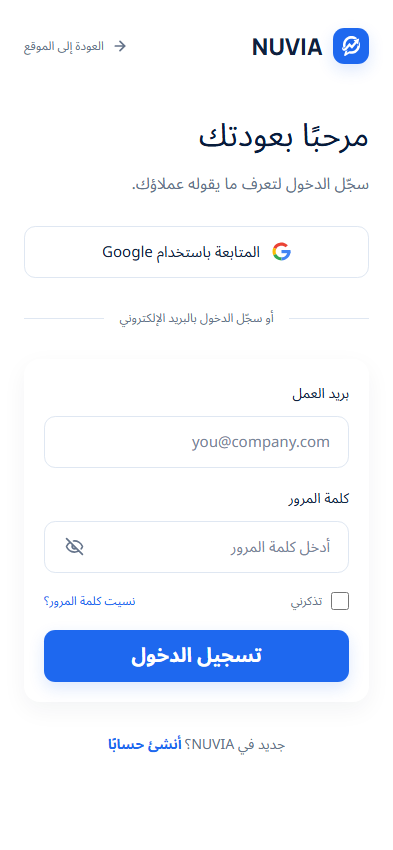
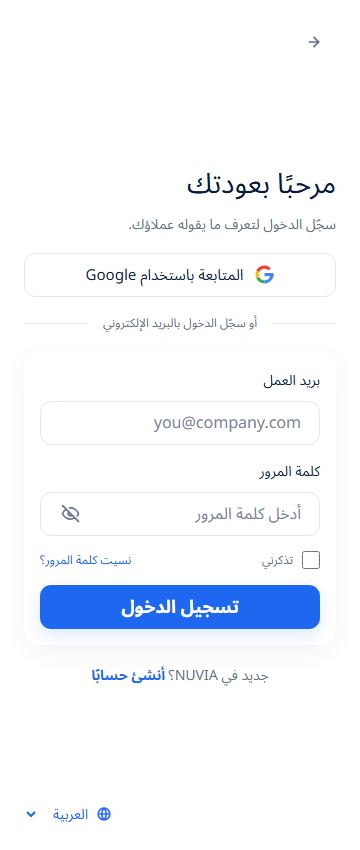
Keep mobile language controls and ignore stale account responses

diff --git a/tests/frontend/flows.test.jsx b/tests/frontend/flows.test.jsx
@@ -1,8 +1,9 @@
 import React from 'react';
-import { fireEvent, render, screen, waitFor } from '@testing-library/react';
+import { act, fireEvent, render, screen, waitFor } from '@testing-library/react';
 import userEvent from '@testing-library/user-event';
-import { describe, expect, it } from 'vitest';
+import { describe, expect, it, vi } from 'vitest';
 import App from '../../src/frontend/src/App.jsx';
+import * as auth from '../../src/frontend/src/services/auth.js';
 
 function openRoute(route) {
   history.replaceState(null, '', '/#/' + route);
@@ -87,4 +88,53 @@ describe('bilingual frontend flows', () => {
     fireEvent.click(screen.getByRole('button', { name: 'Hide password' }));
     expect(password).toHaveAttribute('type', 'password');
   });
+});
+
+it('ignores a pending login response after navigating to signup, including its busy state', async () => {
+  let finishLogin, finishSignup;
+  vi.spyOn(auth, 'submitDemo')
+    .mockImplementationOnce(
+      () =>
+        new Promise((resolve) => {
+          finishLogin = resolve;
+        }),
+    )
+    .mockImplementationOnce(
+      () =>
+        new Promise((resolve) => {
+          finishSignup = resolve;
+        }),
+    );
+  openRoute('login');
+  fireEvent.change(screen.getByLabelText('Work email'), { target: { value: 'demo@example.com' } });
+  fireEvent.change(screen.getByLabelText('Password', { exact: true }), {
+    target: { value: 'Synthetic123' },
+  });
+  fireEvent.click(screen.getByRole('button', { name: 'Log in', exact: true }));
+  await waitFor(() => expect(finishLogin).toBeTypeOf('function'));
+  await act(async () => {
+    history.replaceState(null, '', '/#/signup');
+    window.dispatchEvent(new HashChangeEvent('hashchange'));
+  });
+  expect(screen.getByRole('button', { name: 'Create account', exact: true })).toBeEnabled();
+  fireEvent.change(screen.getByLabelText('Full name'), { target: { value: 'Demo owner' } });
+  fireEvent.change(screen.getByLabelText('Work email'), { target: { value: 'demo@example.com' } });
+  fireEvent.change(screen.getByLabelText('Password', { exact: true }), {
+    target: { value: 'Synthetic123' },
+  });
+  fireEvent.change(screen.getByLabelText('Confirm password'), {
+    target: { value: 'Synthetic123' },
+  });
+  fireEvent.click(screen.getByRole('checkbox'));
+  fireEvent.click(screen.getByRole('button', { name: 'Create account', exact: true }));
+  await waitFor(() => expect(finishSignup).toBeTypeOf('function'));
+  await act(async () => {
+    finishLogin({ error: 'loginFailed' });
+  });
+  expect(screen.queryByRole('status')).not.toBeInTheDocument();
+  expect(document.querySelector('.signup button[type=submit]')).toBeDisabled();
+  await act(async () => {
+    finishSignup({ message: 'accountDemo' });
+  });
+  expect(screen.getByRole('status')).toHaveTextContent('No account was created.');
 });

diff --git a/src/frontend/src/App.jsx b/src/frontend/src/App.jsx
@@ -1,4 +1,4 @@
-import React, { useEffect, useState } from 'react';
+import React, { useEffect, useRef, useState } from 'react';
 import Field from './components/Field.jsx';
 import { en, ar } from './i18n.js';
 import { submitDemo } from './services/auth.js';
@@ -21,6 +21,7 @@ const currentRoute = () => {
   return routes.includes(value) ? value : 'landing';
 };
 export default function App() {
+  const requestGeneration = useRef(0);
   const [business, setBusiness] = useState({
     businessName: '',
     industry: '',
@@ -46,13 +47,18 @@ export default function App() {
     isForgot = page === 'forgot';
   useEffect(() => {
     const listener = () => {
+      requestGeneration.current += 1;
+      setBusy(false);
       setPage(currentRoute());
       setErrors({});
       setNotice('');
       setValues({ name: '', email: '', password: '', confirm: '', terms: false, remember: false });
     };
     addEventListener('hashchange', listener);
-    return () => removeEventListener('hashchange', listener);
+    return () => {
+      removeEventListener('hashchange', listener);
+      requestGeneration.current += 1;
+    };
   }, []);
   useEffect(() => {
     document.documentElement.lang = language;
@@ -97,13 +103,17 @@ export default function App() {
     setErrors(next);
     setNotice('');
     if (Object.keys(next).length) return;
+    const generation = ++requestGeneration.current;
+    const isCurrentRequest = () =>
+      generation === requestGeneration.current && currentRoute() === page;
     setBusy(true);
     try {
       const result = await submitDemo(page, values);
+      if (!isCurrentRequest()) return;
       if (result.field) setErrors({ [result.field]: result.error });
       else setNotice(result.error || result.message);
     } finally {
-      setBusy(false);
+      if (isCurrentRequest()) setBusy(false);
     }
   }
   const title = isLogin
@@ -151,6 +161,7 @@ export default function App() {
           </div>
           <button
             className="back"
+            aria-label={t.back}
             onClick={() => {
               location.hash = '/landing';
             }}
@@ -159,7 +170,7 @@ export default function App() {
               src={asset(isForgot || page === 'reset' ? 'imgBackArrow' : 'imgArrowLeft')}
               alt=""
             />
-            {t.back}
+            <span className="back-text">{t.back}</span>
           </button>
         </header>
         <div className={`auth-content ${isSignup ? 'signup' : ''} ${isLogin ? 'login' : ''}`}>

diff --git a/src/frontend/src/styles/setup.css b/src/frontend/src/styles/setup.css
@@ -866,10 +866,21 @@
   }
 }
 
-/* Phone setup screens omit the desktop copyright footer. */
+/* Phone setup screens retain language without desktop copyright links. */
 @media (max-width: 850px) {
   .business-onboarding .setup-footer {
+    display: flex;
+    justify-content: flex-end;
+    padding: 8px 24px 12px;
+  }
+  .business-onboarding .setup-footer > span,
+  .business-onboarding .setup-footer > div > button {
     display: none;
+  }
+  .business-onboarding .setup-footer .language select {
+    color: var(--primary);
+    font-size: 14px;
+    min-height: 32px;
   }
 }
 @media (max-width: 700px) {
@@ -884,5 +895,37 @@
   }
   [dir='rtl'] .business-onboarding .setup-sidebar h2 {
     font-size: 23px;
+  }
+}
+
+.setup-mobile-back {
+  display: none;
+}
+@media (max-width: 850px) {
+  .business-onboarding .setup-header > .brand {
+    display: none;
+  }
+  .business-onboarding .setup-mobile-back {
+    display: flex;
+    min-width: 44px;
+    min-height: 44px;
+    align-items: center;
+    justify-content: center;
+  }
+  [dir='rtl'] .business-onboarding .setup-mobile-back svg {
+    transform: scaleX(-1);
+  }
+  .business-onboarding .setup-footer .language img {
+    filter: brightness(0) saturate(100%) invert(34%) sepia(95%) saturate(2702%) hue-rotate(212deg)
+      brightness(96%) contrast(95%);
+  }
+}
+
+.business-onboarding .setup-footer .language img {
+  display: none;
+}
+@media (max-width: 850px) {
+  .business-onboarding .setup-footer .language img {
+    display: block;
   }
 }

diff --git a/src/frontend/src/styles/app.css b/src/frontend/src/styles/app.css
@@ -852,11 +852,28 @@ footer button {
     line-height: 1.45;
   }
 }
-/* Mobile account screens omit the desktop utility footer. */
+/* Mobile account screens retain language without desktop utility links. */
 @media (max-width: 850px) {
   .auth-layout .auth-panel > footer {
+    display: flex;
+    justify-content: flex-end;
+    padding: 8px 0 0;
+    flex-shrink: 0;
+  }
+  .auth-layout .auth-panel > footer > span,
+  .auth-layout .auth-panel > footer > div > button {
     display: none;
   }
+  .auth-layout .auth-panel > footer .language select {
+    color: var(--primary);
+    font-size: 14px;
+    min-height: 32px;
+  }
+  .auth-layout .auth-panel > footer .language img {
+    filter: brightness(0) saturate(100%) invert(34%) sepia(95%) saturate(2702%) hue-rotate(212deg)
+      brightness(96%) contrast(95%);
+  }
+
   .auth-layout .auth-panel {
     justify-content: flex-start;
   }
@@ -1028,5 +1045,17 @@ footer button {
   }
   .auth-layout .signup .intro p {
     line-height: 1.4;
+  }
+}
+
+@media (max-width: 850px) {
+  .auth-layout .auth-panel > header .brand,
+  .auth-layout .back-text {
+    display: none;
+  }
+  .auth-layout .back {
+    min-width: 44px;
+    min-height: 44px;
+    justify-content: center;
   }
 }

diff --git a/src/frontend/src/pages/BusinessOnboarding.jsx b/src/frontend/src/pages/BusinessOnboarding.jsx
@@ -61,6 +61,22 @@ export default function BusinessOnboarding({ page, language, setLanguage, values
   return (
     <div className="business-onboarding" data-step={step}>
       <header className="setup-header">
+        <a
+          className="setup-mobile-back back"
+          href="#/landing"
+          aria-label={language === 'ar' ? 'العودة إلى الموقع' : 'Back to website'}
+        >
+          <svg width="20" height="20" viewBox="0 0 24 24" aria-hidden="true">
+            <path
+              d="m14 6-6 6 6 6"
+              fill="none"
+              stroke="currentColor"
+              strokeWidth="2"
+              strokeLinecap="round"
+              strokeLinejoin="round"
+            />
+          </svg>
+        </a>
         <a className="brand" href="#/landing">
           <span>
             <img src={icon('header-nuvia-logo')} alt="" />
@@ -130,6 +146,7 @@ export default function BusinessOnboarding({ page, language, setLanguage, values
         <span>© 2026 Nuvia</span>
         <div>
           <label className="language">
+            <img src={asset('login-imgGlobe')} alt="" />
             <select
               aria-label="Language / اللغة"
               value={language}

diff --git a/docs/frontend.md b/docs/frontend.md
@@ -86,8 +86,12 @@ English and Arabic screenshots are committed under `docs/ui/frontend/` for revie
 
 ## Mobile refinements
 
-Account screens hide the desktop utility footer on small screens. The mobile landing footer follows the Figma language/copyright/social row, and the hero preview keeps equal gutters in English and Arabic. Bottom padding is reduced, the mobile browser theme stays white, and root vertical overscroll is disabled on landing pages to avoid exposing a blank area during bounce scrolling. Phone typography is slightly smaller, and the landing navigation remains fixed during scrolling. Only feature and process cards use a brief 280 ms entry animation with an 8 px movement and no stagger; language switching and reduced-motion preferences remain supported. Business onboarding hides the desktop copyright footer on mobile. The iPhone-specific browser bounce still needs confirmation on the user's actual Safari device.
+Account screens keep the language selector in the bottom footer on small screens while hiding copyright and utility links. The mobile landing footer follows the Figma language/copyright/social row, and the hero preview keeps equal gutters in English and Arabic. Bottom padding is reduced, the mobile browser theme stays white, and root vertical overscroll is disabled on landing pages to avoid exposing a blank area during bounce scrolling. Phone typography is slightly smaller, and the landing navigation remains fixed during scrolling. Only feature and process cards use a brief 280 ms entry animation with an 8 px movement and no stagger; language switching and reduced-motion preferences remain supported. Business onboarding keeps only the language selector in its mobile footer. The iPhone-specific browser bounce still needs confirmation on the user's actual Safari device.
 
 ## Account viewport fit
 
 Login and signup use compact spacing at common screen heights, with no internal form scrollbar. Browser review confirms both languages fit at 393 × 800 and 1440 × 800. Shorter viewports, enlarged text, keyboard display, and validation errors may require natural page scrolling so fields remain reachable; content is never clipped to enforce a fixed screen. Mobile inputs use a 16 px font to avoid automatic focus zoom on iOS.
+
+## Mobile language and pending account requests
+
+At widths up to 850 px, account and business screens keep a blue language control at the bottom, hide the header logo, and provide an arrow-only return control with an accessible name and RTL direction. Desktop header content remains unchanged. Changing account routes invalidates pending submissions and resets loading state; stale results cannot overwrite notices or clear a newer request. The regression test resolves an old login request while a new signup request is pending.
